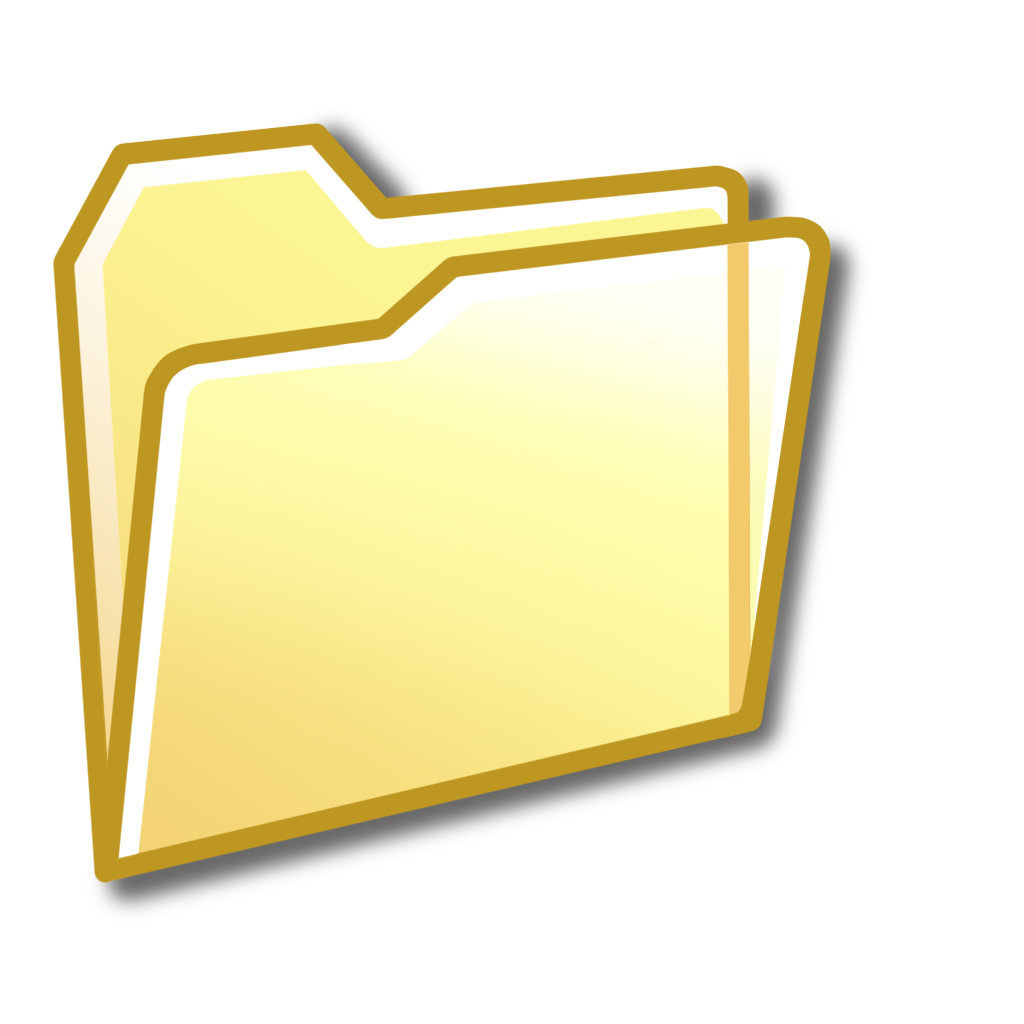
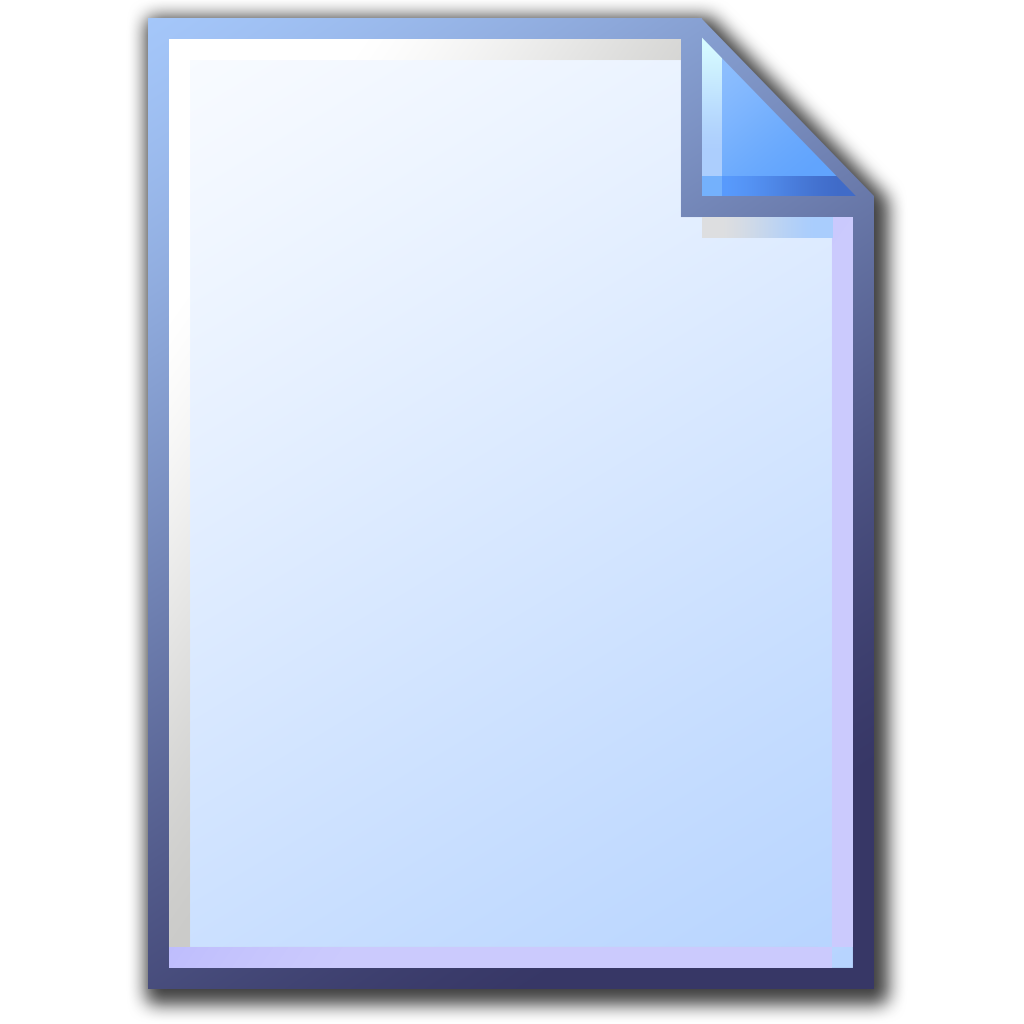
partial fileview

diff --git a/website/auth.js b/website/auth.js
@@ -19,11 +19,10 @@ module.exports = function(app, API_KEY) {
         // If login successful, save to session
         if (result.success) {
             req.session.user = result.user;
-            console.log(result);  // Store user info in session!
+            req.session.path = '/';  
             req.session.isLoggedIn = true;
-            console.log('User logged in:', req.session.user);
             
-            res.redirect('/dashboard');  // Send them to main page
+            res.redirect('/dashboard');
         } else {
             res.redirect('/login?error=invalid');  // Send back to login with error
         }
@@ -33,22 +32,47 @@ module.exports = function(app, API_KEY) {
         if (req.session.isLoggedIn) {
             res.json({
                 loggedIn: true,
-                user: req.session.user
+                user: req.session.user,
+                path: req.session.path
             });
         } else {
             res.json({ loggedIn: false });
         }
     });
 
-    // app.get('/current_user', (req, res) => {
-    //     if (req.session.isLoggedIn) {
-    //         res.json({
-    //         loggedIn: true,
-    //         user: req.session.user
-    //         });
-    //     } else {
-    //         res.json({ loggedIn: false });
-    //     }
-    // });
+    app.post('/update_path', (req, res) => {
+        if (!req.session.isLoggedIn) {
+            return res.status(401).json({ error: 'Not logged in' });
+        }
+        
+        const { path } = req.body;
+        req.session.path = path || '';
+        res.json({ success: true, path: req.session.path });
+    });
 
+    app.get('/download', async (req, res) => {
+    if (!req.session.isLoggedIn) {
+        return res.redirect('/login');
+    }
+    
+    try {
+        const filePath = req.query.path;
+        const url = `https://api.eduarhiv.com/fs/download?path=${encodeURIComponent(filePath)}`;
+        
+        const apiResponse = await fetch(url, {
+            headers: { 'X-API-Key': API_KEY }
+        });
+        
+        if (!apiResponse.ok) {
+            return res.status(404).send('File not found');
+        }
+        
+        // Pipe the file through
+        const buffer = await apiResponse.arrayBuffer();
+        res.send(Buffer.from(buffer));
+    } catch (error) {
+        console.error('Download error:', error);
+        res.status(500).send('Download failed');
+    }
+});
 }

diff --git a/website/files.js b/website/files.js
@@ -1,0 +1,55 @@
+module.exports = function(app, API_KEY) {
+    app.get("/crumbs", async (req, res) => {
+        try {
+            const path = req.query.path || '';
+            const url = `https://api.eduarhiv.com/fs/path_from_root?path=${encodeURIComponent(path)}`; // Changed!
+        
+            const apiResponse = await fetch(url, {
+                method: 'GET',
+                headers: {
+                    'Content-Type': 'application/json',
+                    'X-API-Key': API_KEY
+                }
+            });
+            
+            if (!apiResponse.ok) {
+                return res.status(apiResponse.status).json({ 
+                    error: 'API request failed' 
+                });
+            }
+            
+            const data = await apiResponse.json();
+            res.json(data);
+        } catch (error) {
+            console.error('Crumbs error:', error);
+            res.status(500).json({ error: 'Failed to fetch breadcrumbs' });
+        }
+    });
+
+    app.get("/file_listing", async (req, res) => {
+        try {
+            const path = req.query.path || '';
+            const url = `https://api.eduarhiv.com/fs/listing?path=${encodeURIComponent(path)}`; // Changed!
+            
+            const apiResponse = await fetch(url, {
+                method: 'GET',
+                headers: {
+                    'Content-Type': 'application/json',
+                    'X-API-Key': API_KEY
+                }
+            });
+            
+            if (!apiResponse.ok) {
+                return res.status(apiResponse.status).json({ 
+                    error: 'API request failed' 
+                });
+            }
+            
+            const data = await apiResponse.json();
+            res.json(data);
+        } catch (error) {
+            console.error('File listing error:', error);
+            res.status(500).json({ error: 'Failed to fetch file listing' });
+        }
+    });
+}

diff --git a/website/index.js b/website/index.js
@@ -7,7 +7,7 @@ const cors = require("cors");
 const app = express();
 const port = 3000;
 const API_KEY = process.env.API_KEY;
-const API_URL = process.env.API_URL || 'http://api.eduarhiv.com';
+const API_URL = process.env.API_URL || 'https://api.eduarhiv.com';
 
 app.use(
   cors({
@@ -19,12 +19,9 @@ app.use(
   })
 );
 
-
-// STEP 1: Set up body parsing FIRST
 app.use(express.json());
 app.use(express.urlencoded({ extended: true }));
 
-// STEP 2: Set up session
 app.use(session({
   secret: 'your-secret-key-change-this', 
   resave: false,  
@@ -36,7 +33,6 @@ app.use(session({
   }
 }));
 
-// STEP 3: Password protection (optional)
 if (process.env.BASIC_AUTH_PASSWORD) {
   app.use(basicAuth({
     users: { 'demo': process.env.BASIC_AUTH_PASSWORD },
@@ -45,11 +41,10 @@ if (process.env.BASIC_AUTH_PASSWORD) {
   }));
 }
 
-// STEP 4: Static files
 app.use(express.static('public'));
 
-// STEP 5: NOW set up routes (including auth)
 require('./auth')(app, API_KEY);
+require('./files')(app, API_KEY);
 
 app.get("/", (req, res) => {
   res.sendFile(__dirname + "/public/index.html");
@@ -64,6 +59,19 @@ app.get("/dashboard", (req, res) => {
     res.sendFile(__dirname + "/public/dashboard/dashboard.html");
   }
 });
+
+app.get("/file_view", (req, res) => {
+  if (req.session.isLoggedIn) {
+    res.sendFile(__dirname + "/public/file_view/file_view.html");
+  }
+});
+
+app.get("/test_view", (req, res) => {
+  if (req.session.isLoggedIn) {
+    res.sendFile(__dirname + "/public/file_view/test_view.html");
+  }
+});
+
 
 // STEP 6: Start server
 app.listen(port, "0.0.0.0", () => {

diff --git a/website/public/file_view/file_view.js b/website/public/file_view/file_view.js
@@ -1,0 +1,52 @@
+// file_view.js
+import { displayFilesAndFolders } from './htmlgen.js';
+
+// Load files for current path
+async function loadFiles() {
+    const user = await getCurrentUser();
+    if (!user) {
+        window.location.href = '/login';
+        return;
+    }
+    
+    console.log('Loading files for path:', user.path);
+    
+    // Fetch file listing
+    const response = await fetch(`/file_listing?path=${encodeURIComponent(user.path)}`);
+    const data = await response.json();
+    
+    console.log('File listing response:', data);  // <-- See what we got
+    
+    // Check if we have items
+    if (!data.items) {
+        console.error('No items in response!');
+        return;
+    }
+    
+    // Display files
+    displayFilesAndFolders(data.items);
+    
+    // Update UI
+    document.getElementById('username').innerText = user.username;
+    document.getElementById('userrole').innerText = user.role;
+    document.getElementById('pathdisplay').innerText = `EDUARHIV/${user.path}`;
+}
+
+// Navigate to a new path
+async function navigateTo(newPath) {
+    // Update path in session
+    await fetch('/update_path', {
+        method: 'POST',
+        headers: { 'Content-Type': 'application/json' },
+        body: JSON.stringify({ path: newPath })
+    });
+    
+    // Reload files
+    await loadFiles();
+}
+
+// Make navigateTo available globally for htmlgen.js
+window.navigateTo = navigateTo;
+
+// Load on page ready
+window.addEventListener('DOMContentLoaded', loadFiles);

diff --git a/website/public/file_view/htmlgen.js b/website/public/file_view/htmlgen.js
@@ -1,0 +1,59 @@
+function FileCard(file) {
+  const card = document.createElement('div');
+  card.className = 'file-card';
+  card.innerHTML = `
+    <img src="/images/file.png" alt="File Icon" class="file-icon">
+    <p>${file.name}</p>
+  `;
+  
+  card.addEventListener('dblclick', () => {
+    // Download file
+    window.open(`/download?path=${encodeURIComponent(file.path)}`);
+  });
+  
+  return card;
+}
+
+function FolderCard(folder) {
+  const card = document.createElement('div');
+  card.className = 'file-card';
+  card.innerHTML = `
+    <img src="/images/folder.png" alt="Folder Icon" class="file-icon">
+    <p>${folder.name}</p>
+  `;
+
+  card.addEventListener('dblclick', () => {
+    // Navigate to this folder
+    window.navigateTo(folder.path);
+  });
+  
+  return card;
+}
+
+function displayFilesAndFolders(items) {
+  const container = document.querySelector('.mainarea');
+  container.innerHTML = '';
+  
+  if (!items || !Array.isArray(items)) {
+    console.error('Items is not an array:', items);
+    container.innerHTML = '<p>Error loading files</p>';
+    return;
+  }
+  
+  if (items.length === 0) {
+    container.innerHTML = '<p>No files or folders here</p>';
+    return;
+  }
+  
+  items.forEach(item => {
+    let card;
+    if (item.type === 'directory') {
+      card = FolderCard(item);
+    } else {
+      card = FileCard(item);
+    }
+    container.appendChild(card);
+  });
+}
+
+export { displayFilesAndFolders };

diff --git a/website/public/file_view/file_view.html b/website/public/file_view/file_view.html
@@ -1,0 +1,32 @@
+<!DOCTYPE html>
+<html lang="en">
+<head>
+    <meta charset="UTF-8">
+    <meta name="viewport" content="width=device-width, initial-scale=1.0">
+    <title>Eduarhiv Dashboard</title>
+    <script src="/utils.js"></script>
+    <script type="module" src="/file_view/file_view.js"></script>
+    <link rel="stylesheet" href="/style.css">
+    <link rel="stylesheet" href="/dashboard/dashboard.css">
+    <link rel="stylesheet" href="/file_view/file_view.css">
+</head>
+<body>
+    <div class="container">
+        <div class="mainarea"></div>
+        <div class="sidearea"></div>
+        <div class="toolarea" style="--total: 3;">
+            <a href="/file_view"><div class="toolicon filetool"></div></a>
+            <a href="/test_view"><div class="toolicon testtool"></div></a>
+            <a href="/perm_view"><div class="toolicon permtool"></div></a>
+        </div>
+        <div class="profilearea">
+            <h3 id="username">user user</h2>
+            <p id="userrole">role</p>
+        </div>
+        <div class="searcharea"></div>
+        <div class="titlearea">
+            <p id="pathdisplay">EDUARHIV/</p>
+        </div>
+    </div>
+</body>
+</html>

diff --git a/website/public/utils.js b/website/public/utils.js
@@ -1,11 +1,20 @@
 async function getCurrentUser() {
+  try {
     const response = await fetch('/current_user');
     const data = await response.json();
-
+    
+    console.log('getCurrentUser response:', data);  // Debug log
+    
     if (!data.loggedIn) {
-        window.location.href = '/login';
-        return null;
+      return null;
     }
-
-    return data.user;
+    
+    return {
+      ...data.user,
+      path: data.path || ''  
+    };
+  } catch (error) {
+    console.error('Error fetching current user:', error);
+    return null;
+  }
 }

diff --git a/website/public/dashboard/dashboard.css b/website/public/dashboard/dashboard.css
@@ -85,7 +85,7 @@
 }
 
 .filetool {
-    background-image: url('/images/file.png');
+    background-image: url('/images/folder.png');
 }
 
 .testtool {
